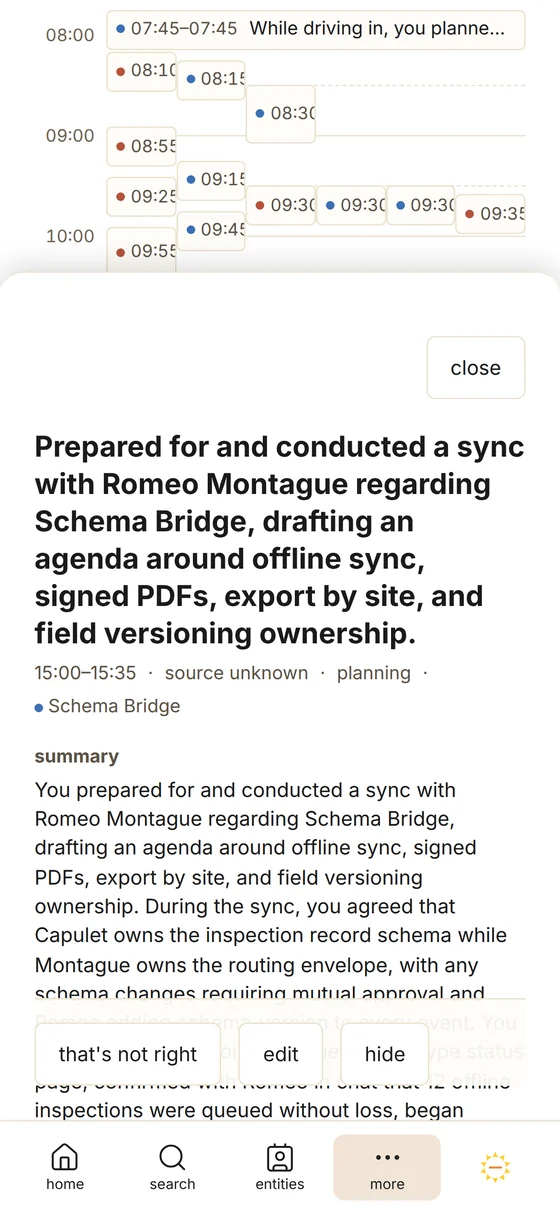
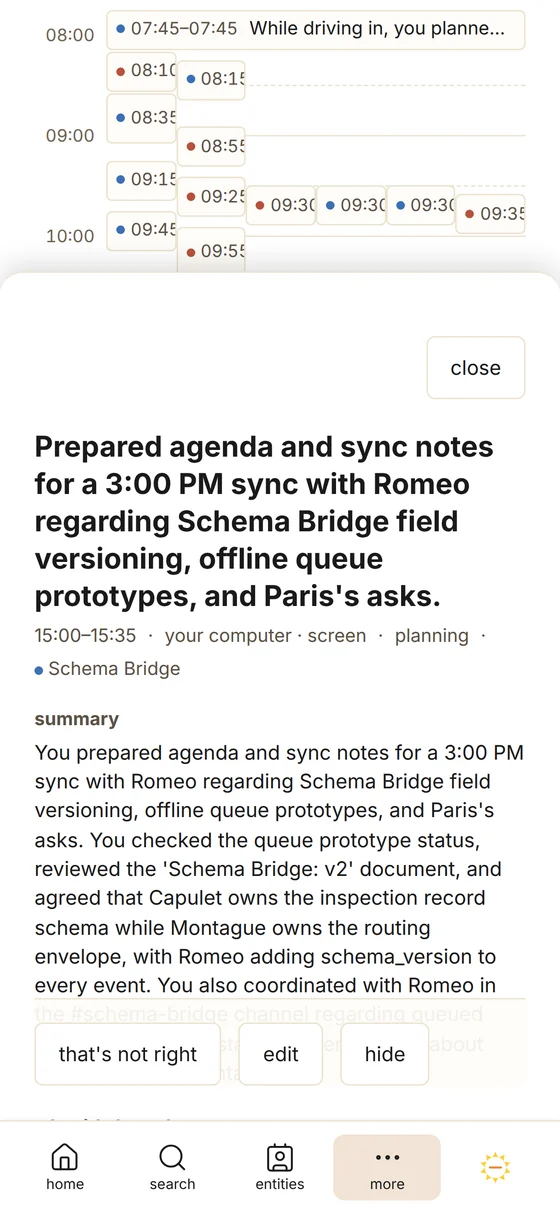
Refresh the how-it-works captures from the November 11 demo journal on journal 2.0.75

diff --git a/public/index.html b/public/index.html
@@ -57,7 +57,7 @@
           "installUrl": "https://solstone.app/install",
           "downloadUrl": "https://solstone.app/download",
           "codeRepository": "https://github.com/solpbc/solstone-journal",
-          "screenshot": "https://solstone.app/static/surfaces/img/activities-2000.webp?v=76e3148d24",
+          "screenshot": "https://solstone.app/static/surfaces/img/activities-2000.webp?v=eb821dc5b8",
           "isAccessibleForFree": true,
           "license": "https://www.gnu.org/licenses/agpl-3.0.html",
           "author": { "@id": "https://solpbc.org/#organization" },
@@ -198,8 +198,8 @@
 <noscript><style>.sf-panel[hidden] { display: block; }</style></noscript>
 <div class="sf-panel" role="tabpanel" id="sf-journal" aria-labelledby="sf-tab-journal">
 <h3>your days</h3><p class="sf-lead">read back any day: what you did, who you were with and what was talked about, all written and organized for you just from what you share.</p>
-<figure class="sf-shot" id="sf-shot-activities"><div class="sf-wide"><div class="sf-laptop-wrap"><div class="sf-dev sf-laptop"><picture><source media="(prefers-color-scheme: dark)" srcset="/static/surfaces/img/activities-dark-1000.webp?v=cfaad4b5b1 1000w, /static/surfaces/img/activities-dark-2000.webp?v=b36f23ac31 2000w" sizes="(max-width: 1120px) 88vw, 960px"><img src="/static/surfaces/img/activities-1000.webp?v=8f056241b4" srcset="/static/surfaces/img/activities-1000.webp?v=8f056241b4 1000w, /static/surfaces/img/activities-2000.webp?v=76e3148d24 2000w" sizes="(max-width: 1120px) 88vw, 960px" width="1000" height="625" loading="lazy" decoding="async" alt="the journal&#x27;s activities for today, a wednesday, with the 3:00 PM sync with Romeo opened: its summary"></picture></div></div></div><div class="sf-narrow"><div class="sf-dev sf-phone"><picture><source media="(prefers-color-scheme: dark)" srcset="/static/surfaces/img/activities-narrow-dark-560.webp?v=2ef4cb0ff8 560w, /static/surfaces/img/activities-narrow-dark-840.webp?v=f776b1ece7 840w" sizes="280px"><img src="/static/surfaces/img/activities-narrow-560.webp?v=b0b009f645" srcset="/static/surfaces/img/activities-narrow-560.webp?v=b0b009f645 560w, /static/surfaces/img/activities-narrow-840.webp?v=6605d13ae2 840w" sizes="280px" width="560" height="1212" loading="lazy" decoding="async" alt="the journal&#x27;s activities for today, a wednesday, with the 3:00 PM sync with Romeo opened: its summary"></picture></div></div></figure>
-<p class="sf-source">a demo journal where everyone is invented, as journal 2.0.67 shows it on november 4, 2026.</p></div>
+<figure class="sf-shot" id="sf-shot-activities"><div class="sf-wide"><div class="sf-laptop-wrap"><div class="sf-dev sf-laptop"><picture><source media="(prefers-color-scheme: dark)" srcset="/static/surfaces/img/activities-dark-1000.webp?v=1da1b49a82 1000w, /static/surfaces/img/activities-dark-2000.webp?v=a0386f5885 2000w" sizes="(max-width: 1120px) 88vw, 960px"><img src="/static/surfaces/img/activities-1000.webp?v=60acd3b32b" srcset="/static/surfaces/img/activities-1000.webp?v=60acd3b32b 1000w, /static/surfaces/img/activities-2000.webp?v=eb821dc5b8 2000w" sizes="(max-width: 1120px) 88vw, 960px" width="1000" height="625" loading="lazy" decoding="async" alt="the journal&#x27;s activities for today, a wednesday, with the planning for the 3:00 PM sync with Romeo opened to its summary"></picture></div></div></div><div class="sf-narrow"><div class="sf-dev sf-phone"><picture><source media="(prefers-color-scheme: dark)" srcset="/static/surfaces/img/activities-narrow-dark-560.webp?v=e5bd5aa293 560w, /static/surfaces/img/activities-narrow-dark-840.webp?v=92b977c243 840w" sizes="280px"><img src="/static/surfaces/img/activities-narrow-560.webp?v=f904bb8302" srcset="/static/surfaces/img/activities-narrow-560.webp?v=f904bb8302 560w, /static/surfaces/img/activities-narrow-840.webp?v=4ce8a06152 840w" sizes="280px" width="560" height="1212" loading="lazy" decoding="async" alt="the journal&#x27;s activities for today, a wednesday, with the planning for the 3:00 PM sync with Romeo opened to its summary"></picture></div></div></figure>
+<p class="sf-source">a demo journal where everyone is invented, as journal 2.0.75 shows it on november 11, 2026.</p></div>
 <div class="sf-panel" role="tabpanel" id="sf-share" aria-labelledby="sf-tab-share" hidden>
 <h3>what goes in</h3><p class="sf-lead">on each of your own devices, you choose what the solstone app takes in for your journal, and you can pause it whenever you like.</p><div class="sf-row">
 <figure class="sf-item" data-w="watch"><div class="sf-dev sf-watch"><picture><img src="/static/surfaces/img/watch-240.webp?v=2ede66cce2" srcset="/static/surfaces/img/watch-240.webp?v=2ede66cce2 240w, /static/surfaces/img/watch-422.webp?v=d973c4bee7 422w" sizes="112px" width="240" height="292" loading="lazy" decoding="async" alt="solstone on an apple watch: 2m, running, and a stop button"></picture><span class="sf-crown" aria-hidden="true"></span></div><figcaption>apple watch</figcaption></figure>
@@ -213,13 +213,13 @@
 <h3>your agents</h3><p class="sf-lead">you can safely let an agent you choose read from your journal, and your journal keeps a record of everything it asked for.</p>
 <div class="sf-agent">
 <figure class="sf-qa"><figcaption class="sf-who">Claude Code</figcaption><dl>
-<dt>asked</dt><dd>Who owns field versioning for Schema Bridge now, and how did we get there this week?</dd>
-<dt>answered</dt><dd><p>Ownership of field versioning is now split by layer, and neither side can make a change alone. You and Romeo agreed this at your 3:00 PM sync today (Nov 4):</p><ul><li><strong>Capulet owns the inspection record schema</strong>: site, inspector, photos, findings and sign time.</li><li><strong>Montague owns the routing envelope</strong>: destination, delivery and retries.</li><li><strong>Any change to either layer needs both sides to approve it.</strong></li><li><strong>Romeo will add a <code>schema_version</code> number to every event</strong>, so the receiver can tell which version an event is on, even when an old tablet sends old events.</li></ul></dd></dl>
-<details><summary>the whole answer, as it came back</summary><div class="sf-full"><p>Ownership of field versioning is now split by layer, and neither side can make a change alone. You and Romeo agreed this at your 3:00 PM sync today (Nov 4):</p><ul><li><strong>Capulet owns the inspection record schema</strong>: site, inspector, photos, findings and sign time.</li><li><strong>Montague owns the routing envelope</strong>: destination, delivery and retries.</li><li><strong>Any change to either layer needs both sides to approve it.</strong></li><li><strong>Romeo will add a <code>schema_version</code> number to every event</strong>, so the receiver can tell which version an event is on, even when an old tablet sends old events.</li></ul><p class="sf-h">How it got there</p><p><strong>Mon, Nov 2: kickoff with Benvolio and Romeo.</strong> Field versioning came up as one of the questions still open in your draft. You asked: &quot;who decides? Is it us? Is it you? Is it both?&quot; Romeo said not to answer it in the first meeting. Benvolio agreed, adding &quot;let&#x27;s not leave it open forever.&quot; Your action item was to write spec v2 by Wednesday and keep versioning in it as an open question.</p><p><strong>Tue, Nov 3: check-in with Friar.</strong> Friar asked who owns the shared format and told you to &quot;get that written down before Ducal sees a demo.&quot; Friar said it should be a single page covering who can change the format, who has to agree, and what happens when you disagree, because once Paris sees it working, the change requests will start. You said you&#x27;d take it to Romeo this week and put it in spec v2.</p><p><strong>Wed, Nov 4, 10:25 AM: #schema-bridge channel.</strong> Romeo offered to show you the demo at 3. You said you wanted to leave that meeting with an owner assigned for field versioning, and Romeo replied &quot;deal.&quot;</p><p><strong>Wed, Nov 4, 3:00 PM: sync with Romeo.</strong> You raised versioning as the one open question left and pointed to the empty owner line in the spec. Romeo proposed the two-layer split with joint approval. You replied &quot;Each side owns its part. Nobody changes anything alone… Okay, decided,&quot; and said you&#x27;d write it into the spec tonight. Romeo took on adding <code>schema_version</code>.</p><p class="sf-h">Afterward</p><ul><li>On screen, the owner line in the Schema Bridge: v2 doc now has the agreement written in.</li><li>Your notes also say to tell Tybalt that the rule covers only the inspection record, not Balcony&#x27;s internals. You started an email to Tybalt about this, and your Thursday list has &quot;10:00 Tybalt about the versioning rule… Listen first.&quot; I couldn&#x27;t find anything showing that conversation has happened yet.</li><li>Friar&#x27;s question about what happens when the two sides disagree didn&#x27;t come up today. The rule covers who owns each layer and that both must approve, but not how to settle a disagreement.</li></ul><p>The transcripts number speakers rather than naming them. I matched them to people by how they addressed each other: you&#x27;re called Juliet, and in today&#x27;s sync you say &quot;Thanks, Romeo.&quot;</p></div></details></figure>
+<dt>asked</dt><dd>Is Tybalt still against working with the Montagues?</dd>
+<dt>answered</dt><dd><p>I wouldn&#x27;t say he&#x27;s against it. The journal never shows Tybalt opposing the partnership itself. He&#x27;s raised specific worries about depending on Montague, and he raised a new one today.</p><p><strong>His first worry was uptime, and it&#x27;s mostly answered.</strong> You passed his question along at the Nov 9 kickoff: &quot;if Balcony depends on mesh routing and mesh routing goes down, do our inspectors stop working?&quot; Romeo suggested a queue on the device, so a Montague outage would only delay inspections, not stop them. You said Tybalt &quot;can live with that. He&#x27;ll want to see it though.&quot; In today&#x27;s 3 PM sync, Romeo showed the prototype: 12 inspections queued during an hour offline, then all sent in order with their original signing times. You told Romeo that Tybalt said this morning he&#x27;s &quot;satisfied if it survives a week of airplane mode.&quot; Romeo answered, &quot;One hour down, 167 to go.&quot; So Tybalt&#x27;s approval depends on that test.</p><p><strong>His new worry is speed, about the versioning agreement.</strong> In that same sync, you and Romeo agreed that Capulet owns the inspection record, Montague owns the routing envelope, and any change to either one needs both sides to approve. Tybalt then replied by email (&quot;Re: Versioning with Montague&quot;): <em>&quot;thanks for writing it down. my worry is they slow us down. can we talk tomorrow at 10?&quot;</em> He seems fine with the setup in principle. His concern is that needing both sides to sign off could slow Capulet down.</p><p><strong>What&#x27;s next:</strong> he asked to talk tomorrow (Nov 12) at 10. I only found that request in his email, not on a calendar.</p><p>The email is the only place I have Tybalt&#x27;s own words. The rest comes from you passing his views along in meetings. The journal entry on him calls him &quot;sceptical of depending on Montague&#x27;s Mesh Routing,&quot; which fits caution more than opposition.</p></dd></dl>
+</figure>
 <figure class="sf-record" style="margin:0"><h4>what your journal recorded</h4>
-<div class="sf-dev sf-window"><picture><source media="(prefers-color-scheme: dark)" srcset="/static/surfaces/img/record-dark-900.webp?v=c29b2dbeb8 900w, /static/surfaces/img/record-dark-1600.webp?v=152599f7bb 1600w" sizes="(max-width: 900px) 88vw, 600px"><img src="/static/surfaces/img/record-900.webp?v=c3aba4f288" srcset="/static/surfaces/img/record-900.webp?v=c3aba4f288 900w, /static/surfaces/img/record-1600.webp?v=4632ee75ad 1600w" sizes="(max-width: 900px) 88vw, 600px" width="900" height="1239" loading="lazy" decoding="async" alt="the journal&#x27;s activity page, with nine requests from Claude Code, each served: search, get_week, get_transcript and fetch"></picture></div></figure>
+<div class="sf-dev sf-window"><picture><source media="(prefers-color-scheme: dark)" srcset="/static/surfaces/img/record-dark-900.webp?v=15f277746f 900w, /static/surfaces/img/record-dark-1600.webp?v=1c7c7d9e80 1600w" sizes="(max-width: 900px) 88vw, 600px"><img src="/static/surfaces/img/record-900.webp?v=e74f6e10ef" srcset="/static/surfaces/img/record-900.webp?v=e74f6e10ef 900w, /static/surfaces/img/record-1600.webp?v=7ba8396f6f 1600w" sizes="(max-width: 900px) 88vw, 600px" width="900" height="1239" loading="lazy" decoding="async" alt="the activity page in the journal&#x27;s agents app, with nine requests from Claude Code, all served, using search, list_entities, get_entity, fetch and get_transcript"></picture></div></figure>
 </div>
-<p class="sf-source">we asked Claude Code this, and it worked from the demo journal on journal 2.0.67, on november 4, 2026. the answer is shown as it came back, and the record beside it is the journal&#x27;s own, from the same run.</p>
+<p class="sf-source">we asked Claude Code this, and it worked from the demo journal on journal 2.0.75, on november 11, 2026. the answer is shown as it came back, and the record beside it is the journal&#x27;s own, from the same run.</p>
 </div>
 </div></div></section>
 
